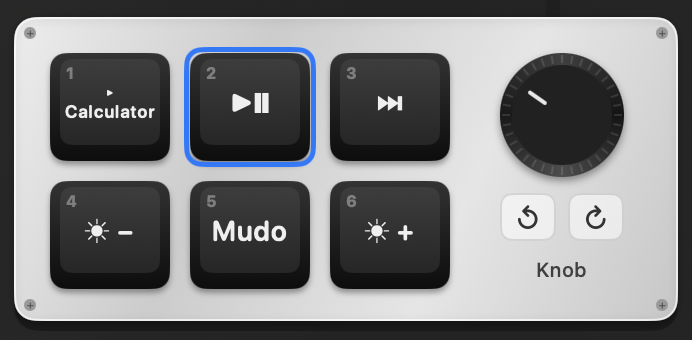
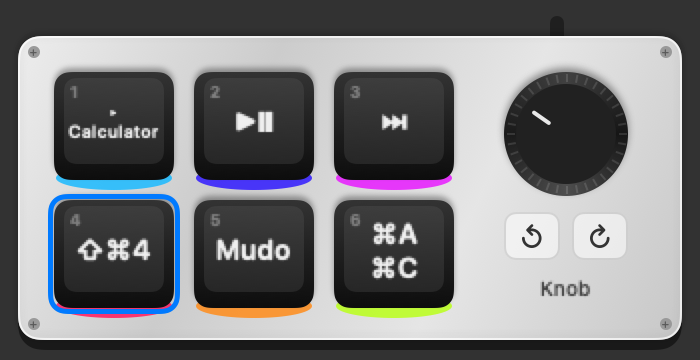
README com as capturas novas (geradas pelo app)
Claude-Session: https://claude.ai/code/session_01DTUetzv3J5LNXNZCiXup6z

diff --git a/README.md b/README.md
@@ -6,7 +6,7 @@ e é a versão gráfica do CLI [`macropad`](https://github.com/nacif-software/vi
 com o mesmo protocolo, a mesma sintaxe de ações e o mesmo arquivo de layout.
 
 <p align="center">
-  <img src="docs/images/painel.png" width="380" alt="Painel do Macropad na barra de menus: desenho do pad com as teclas configuradas, editor da tecla selecionada, LED e presets">
+  <img src="docs/images/painel.png" width="400" alt="Painel do Macropad na barra de menus: desenho do pad com as teclas configuradas, editor da tecla selecionada, LED e presets">
 </p>
 
 O que você grava fica na memória do próprio pad: continua funcionando em qualquer computador,
@@ -31,6 +31,13 @@ ao ligar o Mac: ⚙ → **Abrir ao iniciar sessão**.
 **Idioma:** português, inglês ou espanhol. Segue o idioma do macOS (inglês para os demais);
 para escolher outro, ⚙ → **Idioma**.
 
+<details>
+<summary>Ver o painel em inglês</summary>
+<p align="center">
+  <img src="docs/images/panel-en.png" width="400" alt="O mesmo painel com a interface em inglês">
+</p>
+</details>
+
 **Atualizar:** ⚙ → **Atualizar Macropad…** baixa a versão mais nova, troca o app e reabre.
 A versão instalada aparece no cabeçalho do painel.
 
@@ -41,7 +48,7 @@ libusb usa.
 ## Usando
 
 <p align="center">
-  <img src="docs/images/pad.png" width="460" alt="Desenho do pad: seis teclas pretas mostrando o que cada uma faz e o knob">
+  <img src="docs/images/pad.png" width="350" alt="Desenho do pad: seis teclas pretas mostrando o que cada uma faz e o knob">
 </p>
 
 Clique numa tecla, ou no knob (girar ↺, pressionar, girar ↻), escolha o que ela faz e clique em
@@ -77,11 +84,19 @@ O pad só sabe mandar teclas, mídia e mouse. Para abrir programas, a tecla envi
 
 O app precisa estar aberto para essas teclas funcionarem.
 
+<p align="center">
+  <img src="docs/images/programa.png" width="400" alt="Editor de tecla no modo Programa: abrir o app Calculadora; a tecla envia ⌃⌥⇧⌘1">
+</p>
+
 ### Preset por app
 
 Em **Preset por app**, ligue **Automático** e escolha um preset para cada app: o pad é regravado
 sozinho quando você troca de app (em menos de um segundo). Ex.: Terminal → *Vibe Coder*,
 Spotify → *Mídia*, e um preset padrão para os outros apps.
+
+<p align="center">
+  <img src="docs/images/preset-por-app.png" width="400" alt="Seção Preset por app aberta: Terminal usa Vibe Coder, Safari usa Navegação, Music usa Mídia e os outros apps usam Edição">
+</p>
 
 ### E as camadas?
 
@@ -150,6 +165,9 @@ swift test                          # confere byte a byte com os pacotes do CLI 
 swift run MacropadMenuBar           # roda sem empacotar
 ./scripts/build-app.sh --install    # empacota, copia para /Applications e abre
 ```
+
+As imagens deste README são geradas pelo próprio app (`MacropadMenuBar --screenshots <pasta>`,
+com dados de exemplo): rode o workflow **screenshots** na aba *Actions* quando a interface mudar.
 
 Precisa das ferramentas do Xcode (`xcode-select --install`). Cada push em `main` que muda código
 roda os testes e o build no GitHub Actions e publica uma release com o `Macropad.zip` universal
